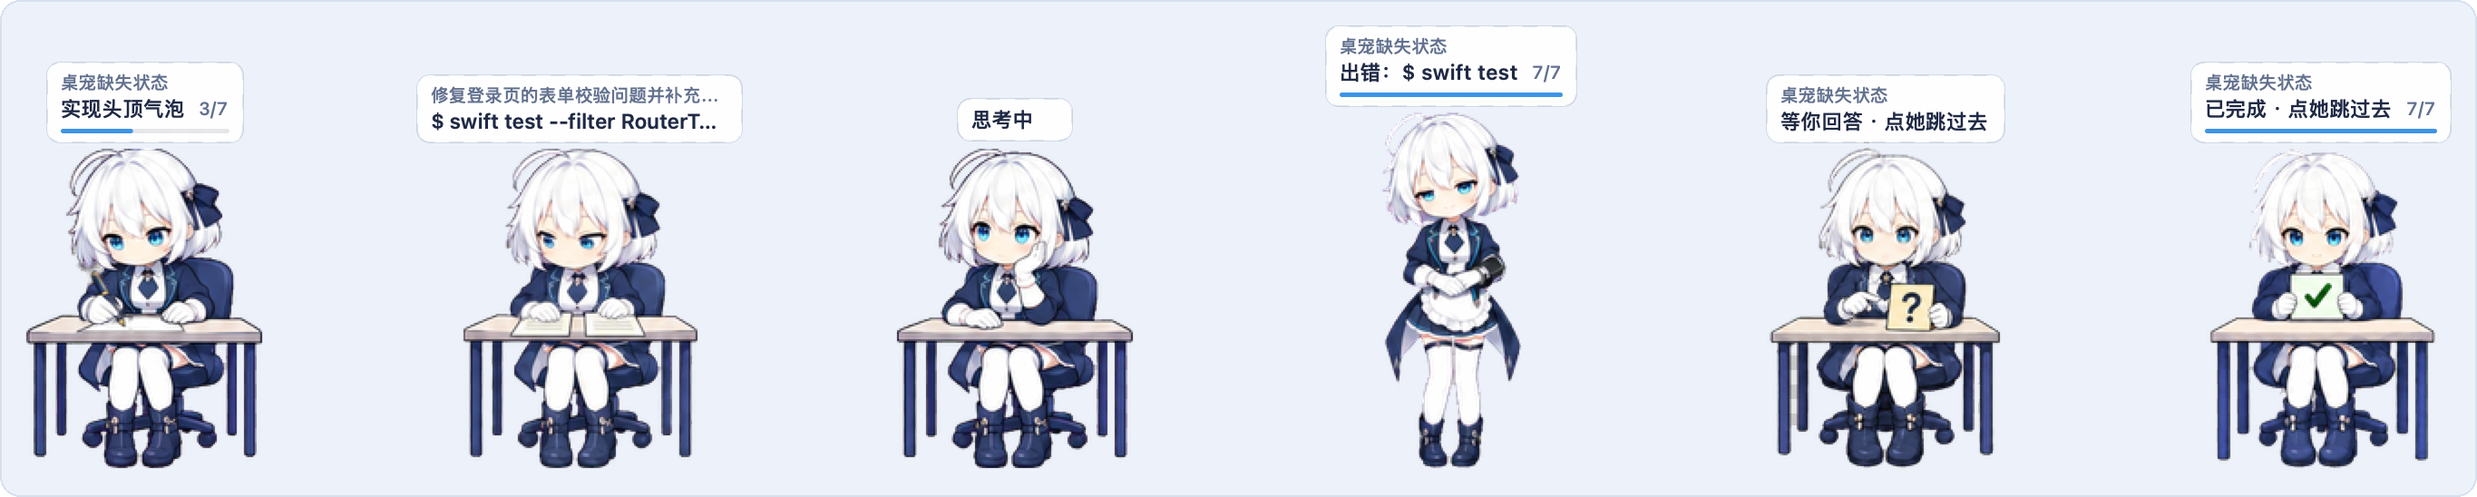
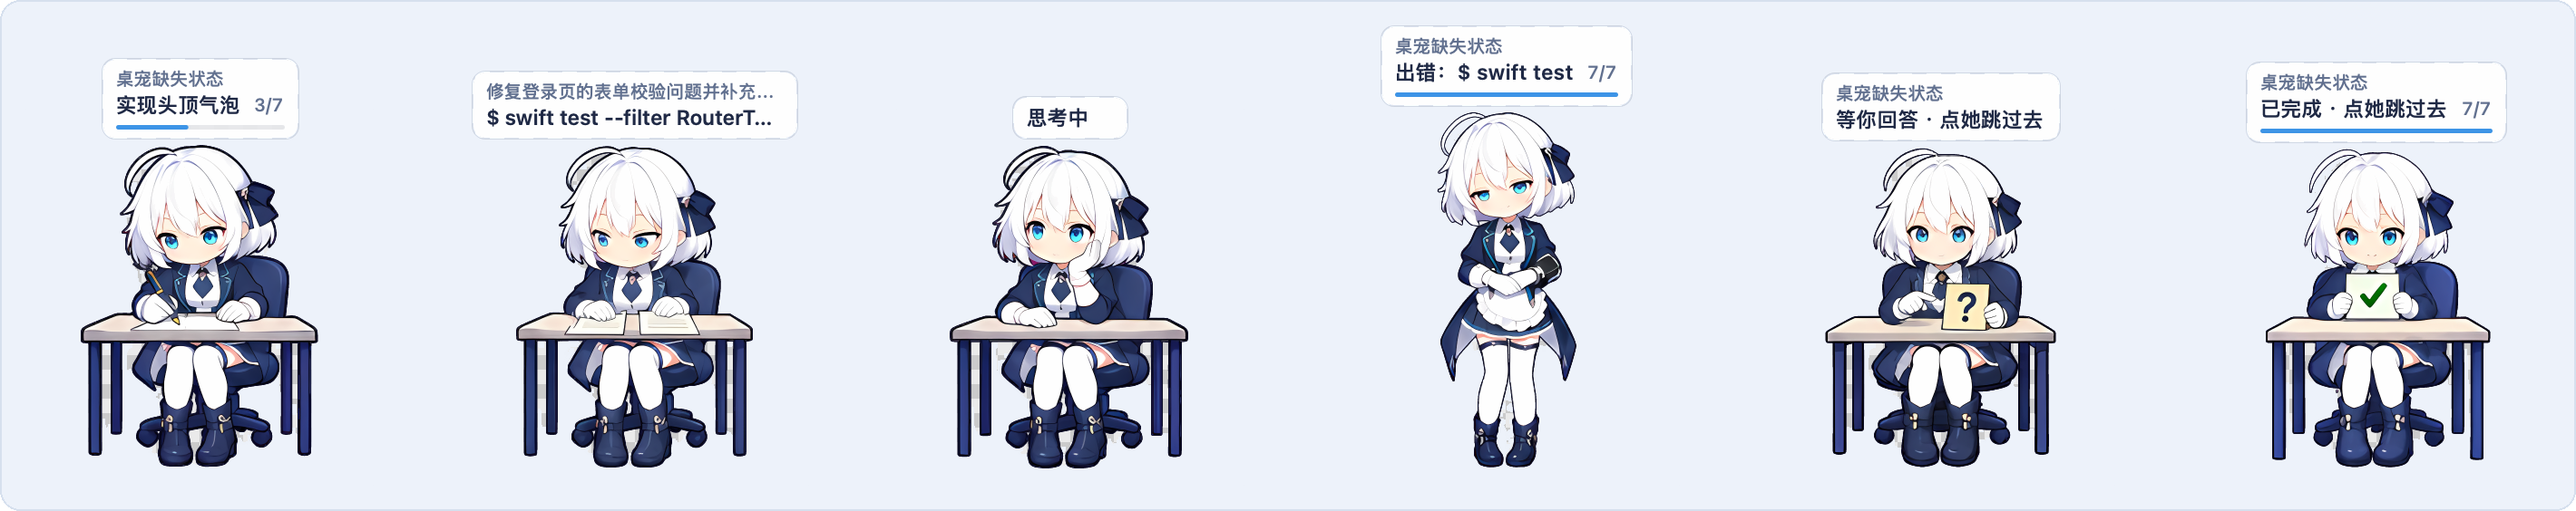
描边加回来，但只有 0.5 点：轮廓外垫一圈细细的深色边
- 原来那圈黑边是抠图残留，在 175% 下有 5–7 个像素宽还是糊的；上一版去掉之后，
  白头发、白袜子贴在浅色桌面上又会化开。现在 upscale_motion.py 在 2 倍图上给轮廓外
  垫一圈 0.5 点（1 像素）的描边，颜色取人物自己最深的描线，垫在人物下面，
  不透明的像素一个不改；--outline 可调，0 表示不描。
- 超分的网络看得很远，手一动，十几个像素外桌腿的颜色也会差几个色阶，轮播时细微地闪。
  现在每帧都和循环的第一帧比：1 倍图上一样的像素，离这一帧变了的地方 2 点以内用自己的值，
  10 点以外用参照帧的值，中间平滑过渡（一刀切会在分界处留一圈台阶）；桌腿一带一律用
  参照帧的值。每段都查 2 倍图上桌腿区有没有变，这次全是 0，变了就报错停下。
- 12 个动作和被拎起来那帧全部重出；README 两处说明跟着改，配图重新生成。

diff --git a/YukioPlayer/tools/motion/upscale_motion.py b/YukioPlayer/tools/motion/upscale_motion.py
@@ -6,11 +6,20 @@
   python tools/motion/upscale_motion.py --only respond   只重做某一段（motion.json 里只换这一条），可写多次
   python tools/motion/upscale_motion.py --no-held        不重做被拎起来那一帧
   python tools/motion/upscale_motion.py --scale 1        不超分，把 1 倍图条原样搬过去（回退用，不需要 torch）
+  python tools/motion/upscale_motion.py --outline 0      不加轮廓描边（默认 0.5 点）
 
 流程：先用 tools/motion/make_motion.py 在 build/motion-1x/ 生成 1 倍图条（手工标坐标的动作生成都在 1 倍下做，
 不用改）；这里逐帧过一遍 Real-ESRGAN 的动画模型（放大 4 倍，再面积平均缩到 2 倍），透明通道单独超分后合回去，
 线条和眼睛在视网膜屏上放大也是清楚的，而且不改人物。超过 WebP 宽度上限（16383）的长条折成几行；
 motion.json 里 pixelScale=2 告诉播放器一格是 384×416 像素、仍按 192×208 点摆放。
+
+超分之后还有两步：
+- 网络看得很远：手一动，十几个像素外桌腿的颜色也会差几个色阶，逐帧轮播就是细微的闪。所以每一帧都和循环的
+  第一帧（参照帧）比：1 倍图上和参照帧一样的像素，离这一帧里变了的地方 2 点以内照旧用自己的值，10 点以外
+  换成参照帧的值，中间按距离平滑过渡（一刀切会在分界处留下一圈看得出的台阶）；桌腿一带（1 倍 y ≥ 126）
+  只要和参照帧一样就一律换成参照帧的值，所以桌椅在 2 倍图上也逐像素不动。
+- 轮廓外垫一圈 0.5 点的深色描边（颜色取人物自己最深的描线），垫在人物下面，不透明的像素一个不改。
+  原来那圈抠图留下的黑边约 1–1.5 点而且是糊的；这圈细、清楚，白头发贴在浅色桌面上也不会化开。
 
 环境：系统 Python 没有 torch，单独建一个就行（Apple 芯片走 MPS，一帧约 0.3 秒，全部约 3 分钟）：
   python3.13 -m venv ~/.cache/yukio-sr
@@ -44,6 +53,11 @@ MODEL_URL = 'https://github.com/xinntao/Real-ESRGAN/releases/download/v0.2.2.4/'
[1 lines of base64/hex data omitted]
 MAX_WEBP = 16383
 HELD = ('base/held.png', 'base/held@2x.png')
+OUTLINE_PT = 0.5                 # 轮廓外描边的粗细（点）；2 倍图上是 1 像素
+OUTLINE_RGB = (14, 14, 40)       # 描边颜色：人物自己描线最深的那部分（藏青近黑）
+FREEZE_TOLERANCE = 3             # 和参照帧差不超过这么多（预乘后 0–255）的像素，直接用参照帧的值
+FREEZE_NEAR, FREEZE_FAR = 2, 10  # 离这一帧里变了的地方（点）：NEAR 以内用自己的值，FAR 以外用参照帧的值，中间平滑过渡
+LEGS_TOP = 126                   # 1 倍图里桌腿、椅子一带从这一行往下（make_motion.py 也查这一块）
 
 
 # ---------- 模型（RRDBNet，与 Real-ESRGAN 同构，只做推理） ----------
@@ -163,6 +177,88 @@ def upscale_rgba(up: Upscaler, rgba8: np.ndarray, scale: int) -> np.ndarray:
     return np.round(out * 255).astype(np.uint8)
 
 
+def ring_coverage(alpha: np.ndarray, radius: float, K: int = 4) -> np.ndarray:
+    """alpha（0–1）轮廓外 radius 像素宽那一圈的覆盖率：4 倍超采样下量到 0.5 等值线的距离，再面积平均缩回，边缘抗锯齿。"""
+    h, w = alpha.shape
+    up = cv2.resize(alpha, (w * K, h * K), interpolation=cv2.INTER_LINEAR)
+    inside = (up > 0.5).astype(np.uint8)
+    d = cv2.distanceTransform(1 - inside, cv2.DIST_L2, cv2.DIST_MASK_PRECISE)
+    ring = np.clip(radius * K + 1 - d, 0, 1)
+    ring[inside == 1] = 1
+    return cv2.resize(ring, (w, h), interpolation=cv2.INTER_AREA)
+
+
+def add_outline(rgba8: np.ndarray, radius: float) -> np.ndarray:
+    """轮廓外垫一圈深色描边：人物叠在描边上面，不透明的像素一个不改，半透明的边缘透出下面的深色。"""
+    if radius <= 0:
+        return rgba8
+    f = rgba8.astype(np.float32) / 255
+    a, rgb = f[..., 3], f[..., :3]
+    ring = ring_coverage(a, radius)
+    color = np.array(OUTLINE_RGB, np.float32) / 255
+    out_a = a + ring * (1 - a)
+    out_rgb = (rgb * a[..., None] + color * (ring * (1 - a))[..., None]) / np.maximum(out_a[..., None], 1e-6)
+    out = np.concatenate([out_rgb, out_a[..., None]], axis=2)
+    out[out_a < 1e-4] = 0
+    return np.round(np.clip(out, 0, 1) * 255).astype(np.uint8)
+
+
+def premultiplied(f: np.ndarray) -> np.ndarray:
+    """8 位 RGBA → 预乘的 float（0–255）。透明处的颜色不参与比较与混合。"""
+    p = f.astype(np.float32)
+    p[..., :3] *= p[..., 3:4] / 255
+    return p
+
+
+def straight(p: np.ndarray) -> np.ndarray:
+    a = p[..., 3:4]
+    rgb = np.where(a > 0.5, p[..., :3] * 255 / np.maximum(a, 1e-3), 0)
+    return np.round(np.clip(np.concatenate([rgb, a], axis=2), 0, 255)).astype(np.uint8)
+
+
+def smoothstep(x: np.ndarray) -> np.ndarray:
+    x = np.clip(x, 0, 1)
+    return x * x * (3 - 2 * x)
+
+
+def freeze_static(small: list[np.ndarray], big: list[np.ndarray], scale: int, ref: int):
+    """每一帧里 1 倍图上和参照帧一样的像素，按离「这一帧变了的地方」的远近，平滑地换成参照帧的 2 倍值（规则见文件开头）。
+    返回 (帧, 各帧平均完全换掉的像素数, 各帧平均部分换掉的像素数)。"""
+    if len(big) < 2:
+        return big, 0, 0
+    pr = premultiplied(big[ref])
+    rows = np.arange(big[ref].shape[0])[:, None] / scale
+    out, full, part = [], 0, 0
+    for k, (s1, b2) in enumerate(zip(small, big)):
+        if k == ref:
+            out.append(big[ref])
+            continue
+        same = np.all(s1 == small[ref], axis=2)
+        same = np.repeat(np.repeat(same, scale, axis=0), scale, axis=1)
+        pk = premultiplied(b2)
+        dist = cv2.distanceTransform(same.astype(np.uint8), cv2.DIST_L2, cv2.DIST_MASK_PRECISE) / scale
+        w = smoothstep((dist - FREEZE_NEAR) / (FREEZE_FAR - FREEZE_NEAR))
+        w[np.abs(pk - pr).max(axis=2) <= FREEZE_TOLERANCE] = 1
+        w[np.broadcast_to(rows >= LEGS_TOP, w.shape)] = 1
+        w[~same] = 0
+        out.append(straight(pk * (1 - w[..., None]) + pr * w[..., None]))
+        full += int((w >= 1).sum())
+        part += int(((w > 0) & (w < 1)).sum())
+    n = len(big) - 1
+    return out, full // n, part // n
+
+
+def legs_changed(small: list[np.ndarray], big: list[np.ndarray], scale: int, ref: int) -> int:
+    """1 倍图上桌腿一带（y ≥ LEGS_TOP）和参照帧一样的帧，2 倍图上那一带还有多少像素不一样（应当是 0）。"""
+    top = LEGS_TOP * scale
+    pr = premultiplied(big[ref])[top:]
+    worst = 0
+    for s1, b2 in zip(small, big):
+        if np.array_equal(s1[LEGS_TOP:], small[ref][LEGS_TOP:]):
+            worst = max(worst, int((np.abs(premultiplied(b2)[top:] - pr).max(axis=2) > 0.5).sum()))
+    return worst
+
+
 def plain_rgba(rgba8: np.ndarray, scale: int) -> np.ndarray:
     if scale == 1:
         return rgba8
@@ -200,25 +296,32 @@ def convert(frames: list[np.ndarray], scale: int, up) -> list[np.ndarray]:
 
 # ---------- 主流程 ----------
 
-def process_states(entries: list[dict], scale: int, up) -> list[dict]:
+def process_states(entries: list[dict], scale: int, up, outline: float) -> list[dict]:
     done = []
     for e in entries:
         t0 = time.time()
         frames = read_strip(STAGING / e['asset'], e['frameWidth'], e['frameHeight'])
         big = convert(frames, scale, up)
+        ref = e['sequence'][e.get('loopStart') or 0]      # 参照帧：循环的第一帧
+        big, full, part = freeze_static(frames, big, scale, ref)
+        big = [add_outline(f, outline * scale) for f in big]
+        legs = legs_changed(frames, big, scale, ref)
         sheet = pack(big)
         save_webp(sheet, OUT / e['asset'])
         new = dict(e)
         new['pixelScale'] = scale
         done.append(new)
-        print(f"{e['id']:18s} {len(frames):3d} 帧 → {sheet.width}×{sheet.height}  {time.time() - t0:5.1f}s")
+        print(f"{e['id']:18s} {len(frames):3d} 帧 → {sheet.width}×{sheet.height}  每帧换成参照帧 {full} 像素、"
+              f"过渡 {part}  桌腿区各帧不同 {legs} 像素  {time.time() - t0:5.1f}s")
+        if legs:
+            raise SystemExit(f"{e['id']}: 2 倍图上桌腿区被改动了")
     return done
 
 
-def process_held(scale: int, up):
+def process_held(scale: int, up, outline: float):
     src, dst = (ASSETS / HELD[0]), (ASSETS / HELD[1])
     frame = np.asarray(Image.open(src).convert('RGBA')).copy()
-    big = convert([frame], scale, up)[0]
+    big = add_outline(convert([frame], scale, up)[0], outline * scale)
     dst.parent.mkdir(parents=True, exist_ok=True)
     Image.fromarray(big).save(dst, 'PNG', optimize=True)
     path = ASSETS / 'base' / 'base-animations.json'
@@ -236,7 +339,7 @@ def process_held(scale: int, up):
     print(f"held → {big.shape[1]}×{big.shape[0]}，base-animations.json 已指向 {HELD[1] if scale != 1 else HELD[0]}")
 
 
-def write_motion_json(entries: list[dict], scale: int, merge: bool):
+def write_motion_json(entries: list[dict], scale: int, merge: bool, outline: float):
     path = OUT / 'motion.json'
     src = json.loads((STAGING / 'motion.json').read_text(encoding='utf-8'))
     if merge and path.exists():
@@ -250,6 +353,8 @@ def write_motion_json(entries: list[dict], scale: int, merge: bool):
     note = src.get('note', '')
     if scale != 1:
         note += f' 图条是 {scale} 倍分辨率（pixelScale={scale}，tools/motion/upscale_motion.py 用 Real-ESRGAN 动画模型超分），太长的折成几行。'
+    if outline > 0:
+        note += f' 轮廓外垫了一圈 {outline:g} 点的深色描边。'
     path.write_text(json.dumps({
         'version': 3,
         'generator': 'tools/motion/make_motion.py → tools/motion/upscale_motion.py',
@@ -264,6 +369,7 @@ def main():
     ap.add_argument('--only', action='append', help='只处理这些动作 id')
     ap.add_argument('--no-held', action='store_true', help='不重做被拎起来那一帧')
     ap.add_argument('--scale', type=int, default=2, choices=[1, 2, 4], help='输出倍率（默认 2）')
+    ap.add_argument('--outline', type=float, default=OUTLINE_PT, help=f'轮廓外描边粗细，单位点（默认 {OUTLINE_PT}，0 表示不描）')
     args = ap.parse_args()
     if not (STAGING / 'motion.json').exists():
         raise SystemExit(f'先运行 tools/motion/make_motion.py 生成 1 倍图条（{STAGING}）')
@@ -276,10 +382,10 @@ def main():
         entries = [e for e in entries if e['id'] in set(args.only)]
     up = Upscaler() if args.scale != 1 else None
     t0 = time.time()
-    done = process_states(entries, args.scale, up)
-    write_motion_json(done, args.scale, merge=bool(args.only))
+    done = process_states(entries, args.scale, up, args.outline)
+    write_motion_json(done, args.scale, merge=bool(args.only), outline=args.outline)
     if not args.no_held:
-        process_held(args.scale, up)
+        process_held(args.scale, up, args.outline)
     print(f'完成，共 {time.time() - t0:.0f}s')
 
 

diff --git a/README.md b/README.md
@@ -150,13 +150,13 @@ Both players have window-less modes for poking around: `--demo`, `--replay sessi
 ## Good to know
 
 - English by default. The right-click menu has a Language entry with 中文, and the choice is remembered. Descriptions already attached to earlier events keep their language until the next event arrives. The command-line check modes still print their diagnostics in Chinese.
-- The art is drawn and animated at 192×208, then shipped as 2x sheets (384×416; the picked-up frame 384×480) that are upscaled with an anime super-resolution model and re-cut from the magenta-background sources so the outline has no dark fringe. She stays crisp on Retina and HiDPI screens; above 200% she starts to soften again.
+- The art is drawn and animated at 192×208, then shipped as 2x sheets (384×416; the picked-up frame 384×480) upscaled with an anime super-resolution model. The old thick, blurry dark fringe from keying is gone; a thin half-point outline is drawn around her instead. She stays crisp on Retina and HiDPI screens; above 200% she starts to soften again.
 - Click-to-jump needs the Claude desktop app. Claude Code run in a terminal has no chat window to open, so a click only brings Claude to the front. Deep Code chats live in the terminal too, so on Windows a click simply lowers the card. Verified on macOS; the Windows path is written the same way but has not been tried on a real machine yet.
 - Size is a 50 to 200% slider on macOS and seven steps plus ±5% nudges on Windows, because a native Win32 menu cannot hold a slider.
 - The binaries are unsigned and not notarized. Building from source avoids the first-launch prompts.
 
 ## How the art is made
 
-The character was drawn by ChatGPT's image model from a fixed reference sheet, then keyed, cropped, and animated by the Python tools in `YukioPlayer/tools/`. The animation is deliberately not generated frame by frame. Each state has a single confirmed base image. Parts that need to move visibly, such as a hand, the pen, the magnifier, or the papers, are lifted onto their own layer and moved by two to five pixels with the hole filled in behind them. Head and eyes use small local warps. Every output frame is checked so the desk legs stay exactly where they were.
+The character was drawn by ChatGPT's image model from a fixed reference sheet, then keyed, cropped, and animated by the Python tools in `YukioPlayer/tools/`. The animation is deliberately not generated frame by frame. Each state has a single confirmed base image. Parts that need to move visibly, such as a hand, the pen, the magnifier, or the papers, are lifted onto their own layer and moved by two to five pixels with the hole filled in behind them. Head and eyes use small local warps. Every output frame is checked so the desk legs stay exactly where they were. The finished frames are then upscaled to 2x with Real-ESRGAN's anime model and given a thin dark outline, and anything that stays still at 1x is kept pixel-identical across frames at 2x too.
 
 If Yukio makes your day at the keyboard a little nicer, a ⭐ helps other people find her.

diff --git a/README.zh-CN.md b/README.zh-CN.md
@@ -150,13 +150,13 @@ powershell -ExecutionPolicy Bypass -File scripts\build-exe.ps1    # 打出 dist\
 ## 先说清楚的几件事
 
 - 界面默认英文，右键菜单里的「Language」可以切成中文，选择会记住。已经写进事件里的说明文字（比如“阅读 main.swift”）要到下一条事件才换语言。
-- 素材按 192×208 画和做动作，发出去的是 2 倍图条（384×416，被拎起来那张 384×480）：用动画专用的超分模型放大，底图也从洋红底源图重新抠过，轮廓外面没有那圈发黑的边。Retina／高分屏上放大也是清楚的；超过 200% 才会重新变软。
+- 素材按 192×208 画和做动作，发出去的是 2 倍图条（384×416，被拎起来那张 384×480），用动画专用的超分模型放大。原来抠图留下的那圈又粗又糊的黑边去掉了，换成轮廓外一圈 0.5 点的细描边。Retina／高分屏上放大也是清楚的；超过 200% 才会重新变软。
 - 点一下跳回聊天需要桌面版 Claude。在终端里跑的 Claude Code 没有聊天窗口可开，点了只把 Claude 带到最前面；Deep Code 的聊天也在终端里，所以 Windows 上点一下只是放下牌子。这套跳转在 macOS 上实测过，Windows 那边照同一套写的，还没在实机上验过。
 - 大小：macOS 是 50%–200% 的滑条，Windows 是七个整档加 ±5%，因为 Win32 的原生菜单塞不进滑条。
 - 安装包没有签名、没有公证。从源码自己编译就不会有第一次打开的那些提示。
 
 ## 素材是怎么来的
 
-人物由 ChatGPT 的图像模型按同一套参考图生成，再由 `YukioPlayer/tools/` 里的 Python 脚本抠图、裁切、做成动作。动画有意不逐帧生成：每个状态只有一张定稿底图；手、笔、放大镜、纸这类要明显移动的部件抠成单独一层，平移旋转 2 到 5 像素，原位置补齐；头和眼睛用局部小幅变形；每一帧都会检查桌腿是否纹丝不动。
+人物由 ChatGPT 的图像模型按同一套参考图生成，再由 `YukioPlayer/tools/` 里的 Python 脚本抠图、裁切、做成动作。动画有意不逐帧生成：每个状态只有一张定稿底图；手、笔、放大镜、纸这类要明显移动的部件抠成单独一层，平移旋转 2 到 5 像素，原位置补齐；头和眼睛用局部小幅变形；每一帧都会检查桌腿是否纹丝不动。做好的帧再用 Real-ESRGAN 的动画模型超分成 2 倍、描一圈细细的深色轮廓；1 倍时不动的地方，2 倍各帧也逐像素一致。
 
 如果雪绪让你敲键盘的日子好过了一点，点个 ⭐ 能让更多人找到她。
